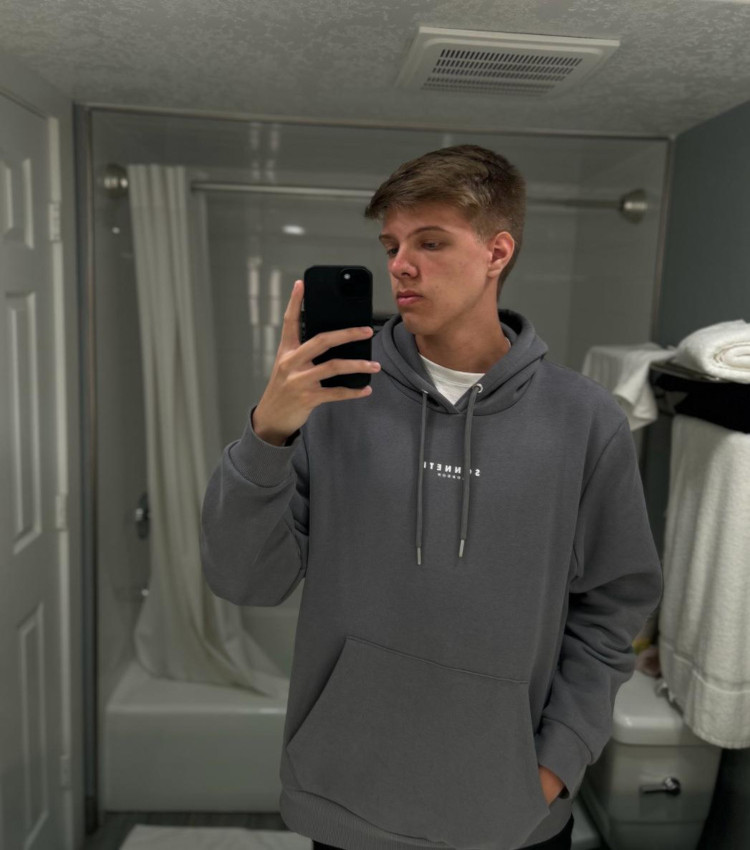
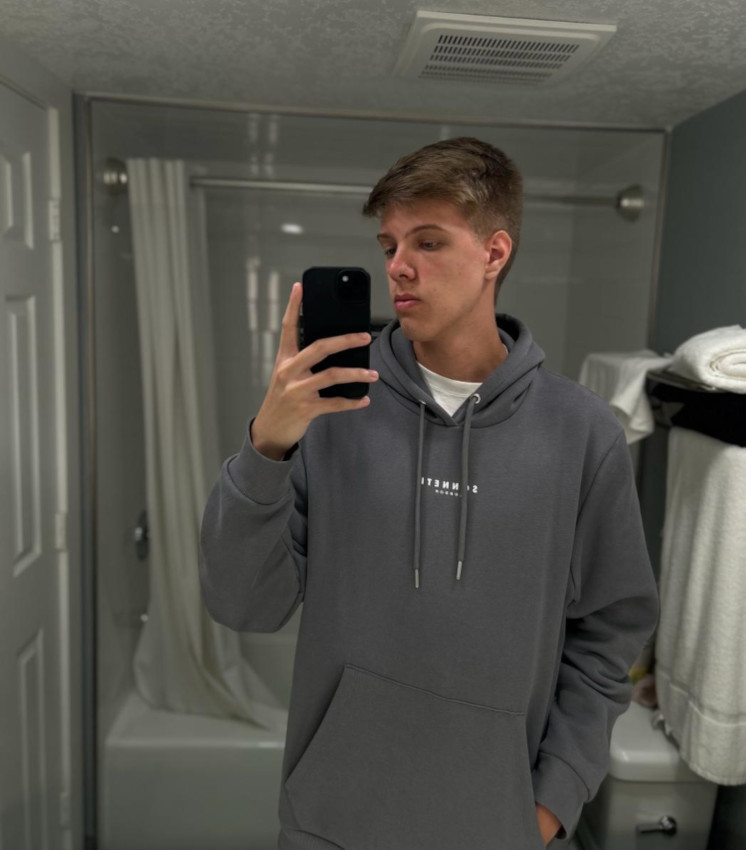
Adicionando imagem dos integrantes

diff --git a/cp/src/app/challenge/page.tsx b/cp/src/app/challenge/page.tsx
@@ -1,7 +1,7 @@
 import Link from "next/link";
 import Image from 'next/image';
 
-import Github from '../../Images/github.png';
+import fotoFelipePizzinato from '../../Images/foto-felipe-pizzinato-750px.jpeg';
 import fotoEduarda from '../../Images/foto-duda-750px.jpg';
 import fotoGustavo from '../../Images/foto-gustavo-750px.jpg';
 import fotoFelipeSora from '../../Images/foto-felipe-sora-750px.jpg'
@@ -23,7 +23,7 @@ export default function Challenge() {
                 <nav>
                     <ul>
                         <li><Image src={fotoEduarda} width={182} height={176} alt="Foto Eduarda" className="foto_integrante"/><Link href="/integrantes/duda/challenge" className="links_integrantes">Eduarda Tiemi</Link></li>
-                        <li><Image src={Github} width={182} height={176} alt="Foto Felipe Pizzinato" className="foto_integrante"/><Link href="/integrantes/pizzi/challenge" className="links_integrantes">Felipe Pizzinato</Link></li>
+                        <li><Image src={fotoFelipePizzinato} width={182} height={176} alt="Foto Felipe Pizzinato" className="foto_integrante"/><Link href="/integrantes/pizzi/challenge" className="links_integrantes">Felipe Pizzinato</Link></li>
                         <li><Image src={fotoFelipeSora} width={182} height={176} alt="Foto Felipe Sora" className="foto_integrante"/><Link href="/integrantes/sora/challenge" className="links_integrantes">Felipe Sora</Link></li>
                         <li><Image src={fotoGustavo} width={182} height={176} alt="Foto Gustavo" className="foto_integrante"/><Link href="/integrantes/gu/challenge" className="links_integrantes">Gustavo Sandrini</Link></li>
                     </ul>

diff --git a/cp/src/app/cp/page.tsx b/cp/src/app/cp/page.tsx
@@ -1,7 +1,7 @@
 import Link from 'next/link';
 import Image from "next/image";
 
-import Github from '../../Images/github.png';
+import fotoFelipePizzinato from '../../Images/foto-felipe-pizzinato-750px.jpeg';
 import fotoEduarda from '../../Images/foto-duda-750px.jpg';
 import fotoGustavo from '../../Images/foto-gustavo-750px.jpg';
 import fotoFelipeSora from '../../Images/foto-felipe-sora-750px.jpg'
@@ -22,7 +22,7 @@ export default function Cp() {
                 <nav>
                     <ul>
                         <li><Image src={fotoEduarda} width={182} height={176} alt="Foto Eduarda" className="foto_integrante"/><Link href="/integrantes/duda/cp" className="links_integrantes">Eduarda Tiemi</Link></li>
-                        <li><Image src={Github} width={182} height={176} alt="Foto Felipe Pizzinato" className="foto_integrante"/><Link href="/integrantes/pizzi/cp" className="links_integrantes">Felipe Pizzinato</Link></li>
+                        <li><Image src={fotoFelipePizzinato} width={182} height={176} alt="Foto Felipe Pizzinato" className="foto_integrante"/><Link href="/integrantes/pizzi/cp" className="links_integrantes">Felipe Pizzinato</Link></li>
                         <li><Image src={fotoFelipeSora} width={182} height={176} alt="Foto Felipe Sora" className="foto_integrante"/><Link href="/integrantes/sora/cp" className="links_integrantes">Felipe Sora</Link></li>
                         <li><Image src={fotoGustavo} width={182} height={176} alt="Foto Gustavo" className="foto_integrante"/><Link href="/integrantes/gu/cp" className="links_integrantes">Gustavo Sandrini</Link></li>
                     </ul>

diff --git a/cp/src/app/gs/page.tsx b/cp/src/app/gs/page.tsx
@@ -1,7 +1,7 @@
 import Link from "next/link";
 import Image from 'next/image';
 
-import Github from '../../Images/github.png';
+import fotoFelipePizzinato from '../../Images/foto-felipe-pizzinato-750px.jpeg';
 import fotoEduarda from '../../Images/foto-duda-750px.jpg';
 import fotoGustavo from '../../Images/foto-gustavo-750px.jpg';
 import fotoFelipeSora from '../../Images/foto-felipe-sora-750px.jpg'
@@ -22,7 +22,7 @@ export default function Gs() {
                 <nav>
                     <ul>
                         <li><Image src={fotoEduarda} width={182} height={176} alt="Foto Eduarda" className="foto_integrante"/><Link href="/integrantes/duda/gs" className="links_integrantes">Eduarda Tiemi</Link></li>
-                        <li><Image src={Github} width={182} height={176} alt="Foto Felipe Pizzinato" className="foto_integrante"/><Link href="/integrantes/pizzi/gs" className="links_integrantes">Felipe Pizzinato</Link></li>
+                        <li><Image src={fotoFelipePizzinato} width={182} height={176} alt="Foto Felipe Pizzinato" className="foto_integrante"/><Link href="/integrantes/pizzi/gs" className="links_integrantes">Felipe Pizzinato</Link></li>
                         <li><Image src={fotoFelipeSora} width={182} height={176} alt="Foto Felipe Sora" className="foto_integrante"/><Link href="/integrantes/sora/gs" className="links_integrantes">Felipe Sora</Link></li>
                         <li><Image src={fotoGustavo} width={182} height={176} alt="Foto Gustavo" className="foto_integrante"/><Link href="/integrantes/gu/gs" className="links_integrantes">Gustavo Sandrini</Link></li>
                     </ul>
